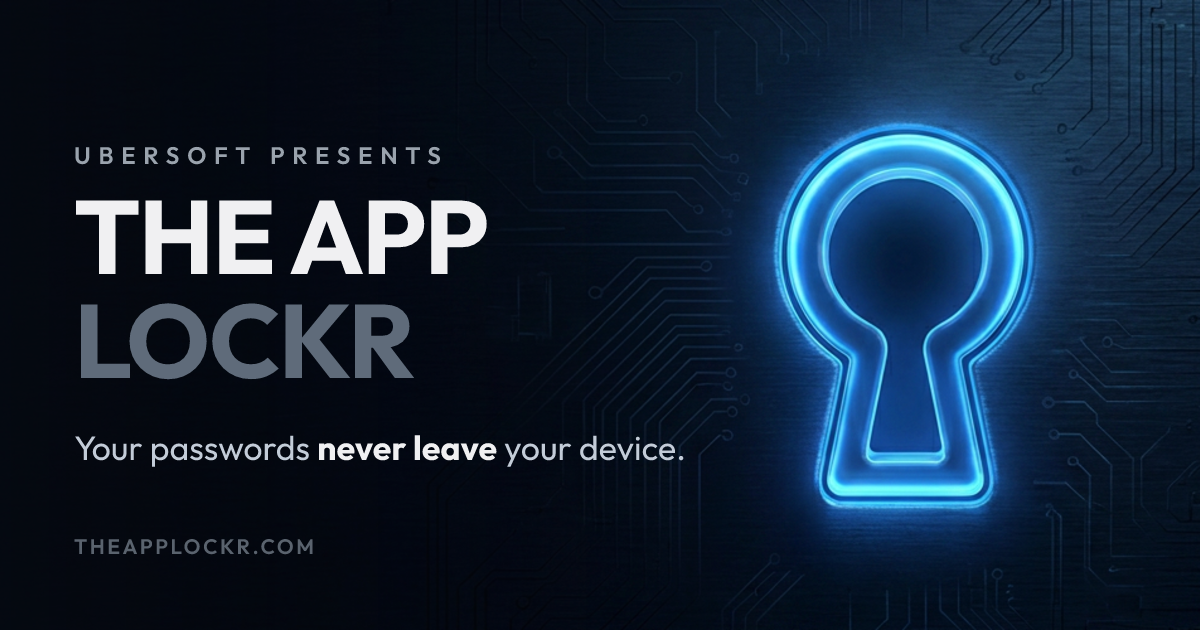
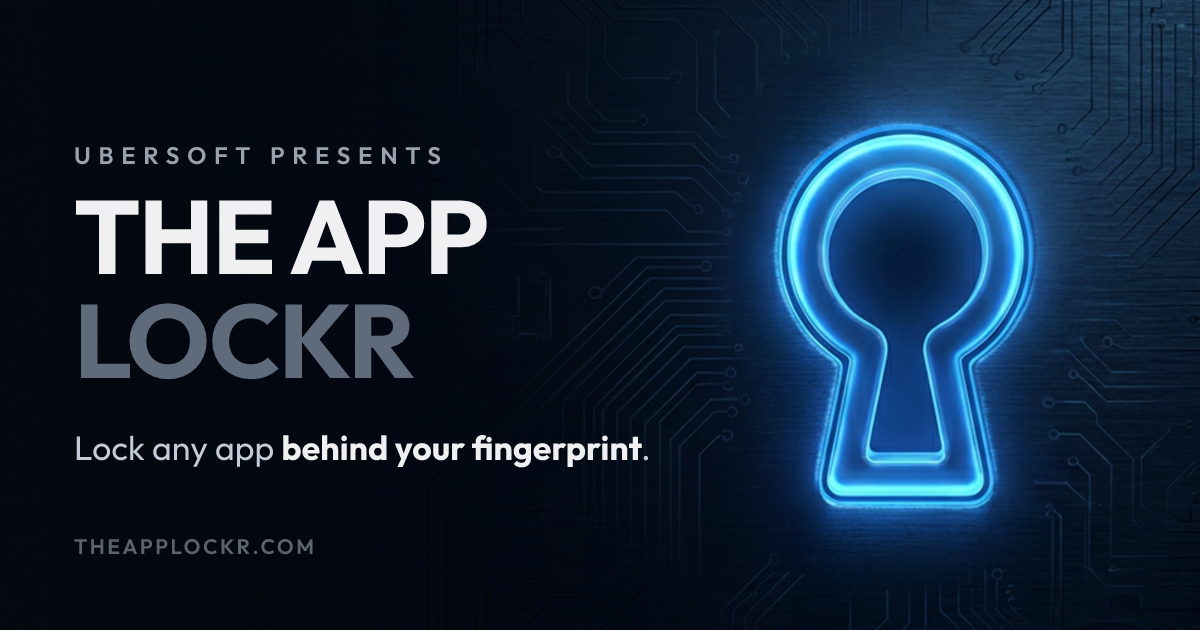
Product pivot: The App Lockr is an app locker — full site rebuild (copy, screenshots, og) for locking apps behind your fingerprint

Changed region(s): [[0.0617, 0.6937, 0.555, 0.754]]

diff --git a/index.html b/index.html
@@ -3,10 +3,10 @@
 <head>
 <meta charset="UTF-8">
 <meta name="viewport" content="width=device-width, initial-scale=1.0">
-<title>The App Lockr | Your passwords never leave your device</title>
-<meta name="description" content="The App Lockr is a local-only Android password manager. No account, no cloud, and no network permission at all — your passwords are encrypted on your device and autofill anywhere. $4.99 one-time, by Ubersoft.">
+<title>The App Lockr | Lock any app behind your fingerprint</title>
+<meta name="description" content="The App Lockr locks any Android app behind your phone's own fingerprint or PIN — WhatsApp, photos, banking, anything. No account, no cloud, and no internet permission at all. $4.99 one-time, by Ubersoft.">
 <meta property="og:title" content="The App Lockr">
-<meta property="og:description" content="A password manager with no account, no cloud, and no network permission. Your passwords never leave your device.">
+<meta property="og:description" content="Lock any app behind your fingerprint. No account, no cloud, no internet permission.">
 <meta property="og:type" content="website">
 <meta property="og:url" content="https://theapplockr.com">
 <meta property="og:image" content="https://theapplockr.com/assets/img/og.png">
@@ -14,7 +14,7 @@
 <meta property="og:image:height" content="630">
 <meta name="twitter:card" content="summary_large_image">
 <meta name="twitter:title" content="The App Lockr">
-<meta name="twitter:description" content="Your passwords never leave your device.">
+<meta name="twitter:description" content="Lock any app behind your fingerprint.">
 <meta name="twitter:image" content="https://theapplockr.com/assets/img/og.png">
 <link rel="canonical" href="https://theapplockr.com/">
 <meta name="theme-color" content="#ffffff" media="(prefers-color-scheme: light)">
@@ -35,18 +35,18 @@
 <script type="application/ld+json">
 {
   "@context":"https://schema.org","@type":"FAQPage","mainEntity":[
-    {"@type":"Question","name":"Where are my passwords stored?","acceptedAnswer":{"@type":"Answer","text":"Only on your device, in a single encrypted vault file. There is no account and no cloud. The app requests no network permission at all, so your passwords physically cannot be sent anywhere."}},
-    {"@type":"Question","name":"How does autofill work without an account?","acceptedAnswer":{"@type":"Answer","text":"The App Lockr registers as your Android autofill service. When a login screen appears, it offers a matching entry as a suggestion and, after your fingerprint or master password, fills it — the app's own screen never has to open."}},
-    {"@type":"Question","name":"What if I lose my master password?","acceptedAnswer":{"@type":"Answer","text":"Because nothing leaves your device and there is no account, no one can reset it — not even us. That is the point. Keep your master password safe and export a backup you can restore from."}},
-    {"@type":"Question","name":"Is it really pay-once?","acceptedAnswer":{"@type":"Answer","text":"Yes — $4.99 one time on Google Play. No subscription, no in-app purchases, no ads."}},
-    {"@type":"Question","name":"How do backups work with no cloud?","acceptedAnswer":{"@type":"Answer","text":"You export the vault as an already-encrypted file to wherever you choose. Moving to a new phone is export then import. The file is unreadable without your master password, so it is safe to store anywhere."}}
+    {"@type":"Question","name":"How does it lock other apps?","acceptedAnswer":{"@type":"Answer","text":"With Android's usage access, The App Lockr notices a protected app opening and immediately puts its lock screen in front of it. Your phone's own fingerprint or PIN opens the door."}},
+    {"@type":"Question","name":"Is my fingerprint stored somewhere?","acceptedAnswer":{"@type":"Answer","text":"No. The check is Android's own biometric prompt; the app is only told whether it passed. Nothing about your fingerprint exists in the app — and with no internet permission, it could not be sent anywhere anyway."}},
+    {"@type":"Question","name":"Can it see what I do inside my apps?","acceptedAnswer":{"@type":"Answer","text":"No. Usage access tells it which app came to the front — never screen content, keystrokes, or messages. It keeps no history, and it has no network access to send anything."}},
+    {"@type":"Question","name":"What happens when I hand someone my phone?","acceptedAnswer":{"@type":"Answer","text":"They can use everything you did not lock. The moment the screen turns off, every locked app re-locks — so what is yours stays yours."}},
+    {"@type":"Question","name":"Is it really pay-once?","acceptedAnswer":{"@type":"Answer","text":"Yes — $4.99 one time on Google Play. No subscription, no in-app purchases, no ads."}}
   ]
 }
 </script>
 </head>
 <body>
 
-<div class="announce">A new kind of password manager · <b>$4.99 one-time</b> · no account, no cloud, no network permission</div>
+<div class="announce">An app locker with nothing to hide · <b>$4.99 one-time</b> · no account, no ads, no internet permission</div>
 
 <nav>
   <div class="nav-in">
@@ -67,8 +67,8 @@
   <div class="wrap">
     <img class="app-icon hero-icon" src="/assets/img/app-icon.png" alt="The App Lockr app icon" width="96" height="96">
     <span class="eyebrow">The App Lockr</span>
-    <h1>Your passwords <span class="dim">never leave your device.</span></h1>
-    <p class="lede normalcase">The App Lockr is a password manager with no account, no cloud, and — uniquely — no network permission at all. Your logins are encrypted on your phone and autofilled anywhere. Nothing to sync, nothing to breach.</p>
+    <h1>Hand over your phone, <span class="dim">not your whole life.</span></h1>
+    <p class="lede normalcase">The App Lockr locks any app behind your phone's own fingerprint or PIN — WhatsApp, photos, banking, whatever's yours. No account, no cloud, and — uniquely — no internet permission at all, so what you lock stays your business.</p>
     <div class="badges" id="get">
       <a class="gp-badge" href="https://play.google.com/store/apps/details?id=com.theapplockr.app" target="_blank" rel="noopener"><img src="assets/img/google-play-badge.png" alt="Get it on Google Play" height="54"></a>
     </div>
@@ -79,9 +79,9 @@
 <div class="stats">
   <div class="wrap" style="padding:0">
     <div class="stats-in">
-      <div class="stat"><div class="ico" style="color:var(--accent)"><svg viewBox="0 0 24 24"><path d="M12 3l7 3v6c0 4.5-3 7.5-7 9-4-1.5-7-4.5-7-9V6l7-3z"/><path d="M9 12l2 2 4-4"/></svg></div><div class="n txt">AES-256</div><div class="k">Vault encryption</div></div>
+      <div class="stat"><div class="ico" style="color:var(--accent)"><svg viewBox="0 0 24 24"><rect x="4" y="11" width="16" height="9" rx="2"/><path d="M8 11V8a4 4 0 0 1 8 0v3"/></svg></div><div class="n txt">Any</div><div class="k">App, lockable</div></div>
       <div class="stat"><div class="ico" style="color:var(--ok)"><svg viewBox="0 0 24 24"><path d="M2 12s3.5-7 10-7 10 7 10 7-3.5 7-10 7S2 12 2 12z"/><path d="M4 4l16 16"/></svg></div><div class="n">0</div><div class="k">Internet permissions</div></div>
-      <div class="stat"><div class="ico" style="color:var(--ok)"><svg viewBox="0 0 24 24"><rect x="4" y="11" width="16" height="9" rx="2"/><path d="M8 11V8a4 4 0 0 1 8 0v3"/></svg></div><div class="n">100<span class="a">%</span></div><div class="k">On your device</div></div>
+      <div class="stat"><div class="ico" style="color:var(--accent)"><svg viewBox="0 0 24 24"><circle cx="12" cy="12" r="9"/><path d="M3 12h18M12 3a15 15 0 0 1 0 18M12 3a15 15 0 0 0 0 18"/></svg></div><div class="n">8</div><div class="k">Languages</div></div>
       <div class="stat"><div class="ico" style="color:var(--accent)"><svg viewBox="0 0 24 24"><path d="M20.59 13.41l-7.17 7.17a2 2 0 0 1-2.83 0L2 12V2h10l8.59 8.59a2 2 0 0 1 0 2.82z"/><circle cx="7" cy="7" r="1.3"/></svg></div><div class="n"><span class="a">$</span>4.99</div><div class="k">One-time</div></div>
     </div>
   </div>
@@ -91,40 +91,40 @@
   <div class="wrap">
     <div class="section-head">
       <span class="eyebrow">FEATURES</span>
-      <h2>Inside the vault</h2>
+      <h2>How it locks</h2>
       <p class="normalcase">Real screenshots from the app — tap any of them for a closer look.</p>
     </div>
     <div class="feature">
       <div class="ftext">
-        <span class="eyebrow">THE VAULT</span>
-        <h2>Every login, one locked list.</h2>
-        <p class="normalcase">Sites, usernames, and notes at a glance — search finds anything in a keystroke. The secrets themselves stay sealed until the moment you unlock them.</p>
+        <span class="eyebrow">THE GUARD</span>
+        <h2>One switch, everything locked.</h2>
+        <p class="normalcase">Protection is one big switch — flip it and every app you chose is behind your fingerprint. Pause it just as fast. It's your phone; the locker never argues.</p>
       </div>
-      <div class="fviz"><button class="shot-link" type="button" data-full="/assets/img/shot-vault.webp" aria-label="Enlarge screenshot: the vault list"><img class="shotframe" src="/assets/img/shot-vault.png" srcset="/assets/img/shot-vault.webp" alt="The vault: every login in one searchable locked list" loading="lazy" width="460" height="818"></button></div>
+      <div class="fviz"><button class="shot-link" type="button" data-full="/assets/img/shot-home.webp" aria-label="Enlarge screenshot: protection on, locked apps listed"><img class="shotframe" src="/assets/img/shot-home.png" srcset="/assets/img/shot-home.webp" alt="Home screen: protection on, guarding WhatsApp, Photos and Chase" loading="lazy" width="460" height="818"></button></div>
     </div>
     <div class="feature flip">
       <div class="ftext">
-        <span class="eyebrow">ONE ENTRY</span>
-        <h2>Each secret, sealed on its own.</h2>
-        <p class="normalcase">Open an entry and copy what you need — passwords reveal only on tap, and the clipboard clears itself. Nothing is decrypted until you ask.</p>
+        <span class="eyebrow">PICK YOUR APPS</span>
+        <h2>Lock exactly what's yours.</h2>
+        <p class="normalcase">Every installed app in one list — flip a toggle to protect it, search finds anything in a keystroke. Lock three apps or thirty; change your mind any time.</p>
       </div>
-      <div class="fviz"><button class="shot-link" type="button" data-full="/assets/img/shot-entry.webp" aria-label="Enlarge screenshot: a vault entry"><img class="shotframe" src="/assets/img/shot-entry.png" srcset="/assets/img/shot-entry.webp" alt="A single entry: username and password sealed, copy buttons ready" loading="lazy" width="460" height="818"></button></div>
+      <div class="fviz"><button class="shot-link" type="button" data-full="/assets/img/shot-apps.webp" aria-label="Enlarge screenshot: the app picker"><img class="shotframe" src="/assets/img/shot-apps.png" srcset="/assets/img/shot-apps.webp" alt="The app picker: every installed app with a lock toggle" loading="lazy" width="460" height="818"></button></div>
     </div>
     <div class="feature">
       <div class="ftext">
-        <span class="eyebrow">THE GENERATOR</span>
-        <h2>Strong passwords on tap.</h2>
-        <p class="normalcase">Proper entropy from your device's secure RNG, with length and character rules you control. One tap, one password nobody's guessing.</p>
+        <span class="eyebrow">THREE PERMISSIONS</span>
+        <h2>Set up in a minute, explained straight.</h2>
+        <p class="normalcase">Each permission is asked for in plain words — what it does, and what it can't do. Nothing is granted silently, and Settings shows you the list any time.</p>
       </div>
-      <div class="fviz"><button class="shot-link" type="button" data-full="/assets/img/shot-generator.webp" aria-label="Enlarge screenshot: the password generator"><img class="shotframe" src="/assets/img/shot-generator.png" srcset="/assets/img/shot-generator.webp" alt="The generator: a strong random password with length and character controls" loading="lazy" width="460" height="818"></button></div>
+      <div class="fviz"><button class="shot-link" type="button" data-full="/assets/img/shot-permissions.webp" aria-label="Enlarge screenshot: the permission setup"><img class="shotframe" src="/assets/img/shot-permissions.png" srcset="/assets/img/shot-permissions.webp" alt="Setup: three permissions, each explained in plain words" loading="lazy" width="460" height="818"></button></div>
     </div>
     <div class="feature flip">
       <div class="ftext">
-        <span class="eyebrow">UNLOCK</span>
-        <h2>Your fingerprint is the key.</h2>
-        <p class="normalcase">Biometric unlock is bound to the Android Keystore — the OS won't release the key without a fresh check. Walk away, and the vault locks itself.</p>
+        <span class="eyebrow">NOTHING NEW TO REMEMBER</span>
+        <h2>Your phone's lock is the key.</h2>
+        <p class="normalcase">It uses the fingerprint or PIN your phone already has — no new password, no recovery questions. And it speaks 8 languages, each written natively.</p>
       </div>
-      <div class="fviz"><button class="shot-link" type="button" data-full="/assets/img/shot-unlock.webp" aria-label="Enlarge screenshot: the unlock screen"><img class="shotframe" src="/assets/img/shot-unlock.png" srcset="/assets/img/shot-unlock.webp" alt="The unlock screen: fingerprint or master password" loading="lazy" width="460" height="818"></button></div>
+      <div class="fviz"><button class="shot-link" type="button" data-full="/assets/img/shot-settings.webp" aria-label="Enlarge screenshot: settings"><img class="shotframe" src="/assets/img/shot-settings.png" srcset="/assets/img/shot-settings.webp" alt="Settings: theme, 8 languages, and every permission visible at a glance" loading="lazy" width="460" height="818"></button></div>
     </div>
   </div>
 </section>
@@ -133,39 +133,39 @@
   <div class="wrap">
     <div class="section-head">
       <span class="eyebrow">WHY IT'S DIFFERENT</span>
-      <h2>Most managers ask you to trust their servers. This one has none.</h2>
-      <p class="normalcase">Every design choice serves one promise: the secrets stay with you.</p>
+      <h2>Most app lockers phone home. This one can't.</h2>
+      <p class="normalcase">Every design choice serves one promise: what you lock stays your business.</p>
     </div>
     <div class="grid">
       <div class="card">
         <svg class="ico" viewBox="0 0 24 24" fill="none"><path d="M12 3l7 3v6c0 4.5-3 7.5-7 9-4-1.5-7-4.5-7-9V6l7-3z" stroke="currentColor" stroke-width="1.6"/><path d="M9 12l2 2 4-4" stroke="currentColor" stroke-width="1.6"/></svg>
-        <h3>No network permission</h3>
-        <p class="normalcase">The app doesn't request internet access in its manifest — anyone can verify it. Passwords can't be sent anywhere because the app literally cannot reach the network.</p>
+        <h3>No internet permission</h3>
+        <p class="normalcase">The app doesn't request internet access in its manifest — anyone can verify it. It literally cannot report which apps you lock, to us or to anyone.</p>
+      </div>
+      <div class="card">
+        <svg class="ico" viewBox="0 0 24 24" fill="none"><path d="M12 11a2 2 0 0 1 2 2c0 3-1 5-1 5" stroke="currentColor" stroke-width="1.6"/><path d="M8.5 6.8A6 6 0 0 1 18 12c0 1.5-.2 3-.5 4" stroke="currentColor" stroke-width="1.6"/><path d="M6.2 10A6 6 0 0 0 6 12c0 2-.4 3.5-1 5" stroke="currentColor" stroke-width="1.6"/><path d="M12 8a4 4 0 0 1 4 4c0 3-.6 5-1 6.5" stroke="currentColor" stroke-width="1.6"/></svg>
+        <h3>Your fingerprint stays your phone's</h3>
+        <p class="normalcase">Unlocking is Android's own biometric prompt. The App Lockr only ever hears "yes" or "no" — nothing about your fingerprint is stored, by us or in the app.</p>
       </div>
       <div class="card">
         <svg class="ico" viewBox="0 0 24 24" fill="none"><rect x="4" y="10" width="16" height="10" rx="2" stroke="currentColor" stroke-width="1.6"/><path d="M8 10V7a4 4 0 0 1 8 0v3" stroke="currentColor" stroke-width="1.6"/></svg>
-        <h3>Fingerprint autofill</h3>
-        <p class="normalcase">Set it as your Android autofill service once. Login screens get a suggestion; a fingerprint fills it. The vault stays locked until the moment you approve.</p>
+        <h3>Re-locks when the screen sleeps</h3>
+        <p class="normalcase">Hand your phone over and the moment the screen turns off, every locked app is locked again. No timers to configure, no session left open.</p>
       </div>
       <div class="card">
-        <svg class="ico" viewBox="0 0 24 24" fill="none"><path d="M12 2v20M4 7l8-5 8 5M4 7v10l8 5 8-5V7" stroke="currentColor" stroke-width="1.6" stroke-linejoin="round"/></svg>
-        <h3>Standard, audited crypto</h3>
-        <p class="normalcase">Argon2id to stretch your master password, AES-256-GCM for the vault, hardware-backed keys via the Android Keystore. No home-grown anything.</p>
+        <svg class="ico" viewBox="0 0 24 24" fill="none"><circle cx="12" cy="12" r="9" stroke="currentColor" stroke-width="1.6"/><path d="M12 7v5l3 3" stroke="currentColor" stroke-width="1.6"/></svg>
+        <h3>One tap to pause</h3>
+        <p class="normalcase">Protection is a switch, not a ceremony. Turn it off for a minute, back on after — your app choices are remembered exactly as you left them.</p>
       </div>
       <div class="card">
-        <svg class="ico" viewBox="0 0 24 24" fill="none"><path d="M4 6h16M4 12h16M4 18h10" stroke="currentColor" stroke-width="1.6"/></svg>
-        <h3>A generator built in</h3>
-        <p class="normalcase">Strong, random passwords on tap — proper entropy from your device's secure RNG, with length and character rules you control.</p>
+        <svg class="ico" viewBox="0 0 24 24" fill="none"><path d="M2 12s3.5-7 10-7 10 7 10 7-3.5 7-10 7S2 12 2 12z" stroke="currentColor" stroke-width="1.6"/><path d="M4 4l16 16" stroke="currentColor" stroke-width="1.6"/></svg>
+        <h3>It can't see inside your apps</h3>
+        <p class="normalcase">Usage access only tells the locker which app comes to the front — never what's on screen or what you type. With no internet permission, there'd be nowhere to send it anyway.</p>
       </div>
       <div class="card">
-        <svg class="ico" viewBox="0 0 24 24" fill="none"><path d="M12 3l7 3v6c0 4.5-3 7.5-7 9-4-1.5-7-4.5-7-9V6l7-3z" stroke="currentColor" stroke-width="1.6"/><path d="M12 8v4M12 15h.01" stroke="currentColor" stroke-width="1.6"/></svg>
-        <h3>Phishing-aware matching</h3>
-        <p class="normalcase">Suggestions match the real domain only. A look-alike like paypal.com.evil.io will never surface your PayPal login. Exact match, never fuzzy.</p>
-      </div>
-      <div class="card">
-        <svg class="ico" viewBox="0 0 24 24" fill="none"><path d="M4 5h16v11H4z" stroke="currentColor" stroke-width="1.6"/><path d="M9 20h6M12 16v4" stroke="currentColor" stroke-width="1.6"/></svg>
-        <h3>Yours to export</h3>
-        <p class="normalcase">Back up the whole vault as one encrypted file, to wherever you like. Moving phones is export, then import. No cloud in the middle.</p>
+        <svg class="ico" viewBox="0 0 24 24" fill="none"><circle cx="12" cy="12" r="9" stroke="currentColor" stroke-width="1.6"/><path d="M3 12h18M12 3a15 15 0 0 1 0 18M12 3a15 15 0 0 0 0 18" stroke="currentColor" stroke-width="1.6"/></svg>
+        <h3>Speaks your language</h3>
+        <p class="normalcase">English, Deutsch, Español, Français, Italiano, 日本語, 한국어, 中文 — each written natively for its audience, not machine-translated.</p>
       </div>
     </div>
   </div>
@@ -186,23 +186,23 @@
       </div>
       <div class="secrow">
         <svg class="k" viewBox="0 0 24 24" fill="none"><path d="M5 13l4 4L19 7" stroke="currentColor" stroke-width="2"/></svg>
-        <div><h3>Your master password never leaves memory</h3><p class="normalcase">It's stretched with Argon2id into a key that unwraps your vault, used briefly in native memory, then wiped. It's never stored, never transmitted.</p></div>
+        <div><h3>Your fingerprint never touches the app</h3><p class="normalcase">The biometric check is Android's own system sheet. The app receives a pass or a fail — never fingerprint data, which stays inside your phone's secure hardware where it always was.</p></div>
       </div>
       <div class="secrow">
         <svg class="k" viewBox="0 0 24 24" fill="none"><path d="M5 13l4 4L19 7" stroke="currentColor" stroke-width="2"/></svg>
-        <div><h3>The vault is AES-256-GCM encrypted</h3><p class="normalcase">Industry-standard authenticated encryption. Each entry's secret is sealed individually and only decrypted the instant you view or fill it.</p></div>
+        <div><h3>Usage access, used narrowly</h3><p class="normalcase">It's read for one fact: which app just came to the front, so a locked one can be gated. Not what's inside, not for how long, not a history — and nothing is ever logged.</p></div>
       </div>
       <div class="secrow">
         <svg class="k" viewBox="0 0 24 24" fill="none"><path d="M5 13l4 4L19 7" stroke="currentColor" stroke-width="2"/></svg>
-        <div><h3>Biometrics are bound to the hardware</h3><p class="normalcase">The fingerprint unlock uses a key held in the Android Keystore that the operating system refuses to release without a fresh biometric check.</p></div>
+        <div><h3>The lock screen is just a door</h3><p class="normalcase">"Display over other apps" lets the lock screen step in front of a protected app the instant it opens. That is the only thing the overlay is used for — it never draws over anything else.</p></div>
       </div>
       <div class="secrow">
         <svg class="k" viewBox="0 0 24 24" fill="none"><path d="M5 13l4 4L19 7" stroke="currentColor" stroke-width="2"/></svg>
-        <div><h3>The screen can't be captured</h3><p class="normalcase">Vault screens are marked secure, so they don't appear in screenshots or the app-switcher preview. The app auto-locks the moment it leaves the foreground, and clipboard copies clear themselves.</p></div>
+        <div><h3>Screen off means locked again</h3><p class="normalcase">Locked apps re-arm the moment the display sleeps, so an unlocked session can't outlive the hand you put the phone in.</p></div>
       </div>
       <div class="secrow">
         <svg class="k" viewBox="0 0 24 24" fill="none"><path d="M5 13l4 4L19 7" stroke="currentColor" stroke-width="2"/></svg>
-        <div><h3>The honest trade-off</h3><p class="normalcase">Because nothing leaves your device and there's no account, no one can recover a lost vault — not even us. That's the direct consequence of real privacy, and we'd rather say it plainly. Keep your master password safe, and keep a backup.</p></div>
+        <div><h3>The honest trade-off</h3><p class="normalcase">An app locker guards your privacy from the people around you — it isn't full-disk encryption. Someone who knows your phone's own PIN could uninstall it. For everyone else, your apps are simply shut, and we'd rather tell you that plainly.</p></div>
       </div>
     </div>
     <p class="rev-note">SECURITY QUESTIONS OR SOMETHING TO REPORT — <a href="mailto:[email redacted]" style="text-decoration:underline; text-underline-offset:2px">[email redacted]</a></p>
@@ -216,10 +216,10 @@
       <h2>Straight answers</h2>
     </div>
     <div class="faq">
-      <details><summary>Where are my passwords stored?</summary><div class="ans">Only on your device, in a single encrypted vault file. There's no account and no cloud. The app requests no network permission at all, so your passwords physically cannot be sent anywhere.</div></details>
-      <details><summary>How does autofill work without an account?</summary><div class="ans">The App Lockr registers as your Android autofill service. When a login screen appears, it offers a matching entry as a suggestion and — after your fingerprint or master password — fills it. The app's own screen never has to open.</div></details>
-      <details><summary>What if I forget my master password?</summary><div class="ans">Because nothing leaves your device and there's no account, no one can reset it — not even us. That's the whole point. Keep your master password safe, and export a backup you can restore from.</div></details>
-      <details><summary>How do backups work with no cloud?</summary><div class="ans">You export the vault as an already-encrypted file, to wherever you choose. Moving to a new phone is export, then import. The file is unreadable without your master password, so it's safe to keep anywhere.</div></details>
+      <details><summary>How does it lock other apps?</summary><div class="ans">With Android's usage access, The App Lockr notices a protected app opening and immediately puts its lock screen in front of it. Your phone's own fingerprint or PIN opens the door.</div></details>
+      <details><summary>Is my fingerprint stored somewhere?</summary><div class="ans">No. The check is Android's own biometric prompt; the app is only told whether it passed. Nothing about your fingerprint exists in the app — and with no internet permission, it couldn't be sent anywhere anyway.</div></details>
+      <details><summary>Can it see what I do inside my apps?</summary><div class="ans">No. Usage access tells it which app came to the front — never screen content, keystrokes, or messages. It keeps no history, and it has no network access to send anything.</div></details>
+      <details><summary>What happens when I hand someone my phone?</summary><div class="ans">They can use everything you didn't lock. The moment the screen turns off, every locked app re-locks — so what's yours stays yours.</div></details>
       <details><summary>Is it really pay-once?</summary><div class="ans">Yes — $4.99 one time on Google Play. No subscription, no in-app purchases, no ads.</div></details>
     </div>
   </div>
@@ -228,7 +228,7 @@
 <section class="final">
   <div class="wrap">
     <span class="eyebrow">Download</span>
-    <h2>The safest place for a password is nowhere but your pocket.</h2>
+    <h2>Phones get handed around. Your apps shouldn't.</h2>
     <p class="normalcase">$4.99, one-time. No subscription. No ads. No account.</p>
     <div class="badges">
       <a class="gp-badge" href="https://play.google.com/store/apps/details?id=com.theapplockr.app" target="_blank" rel="noopener"><img src="assets/img/google-play-badge.png" alt="Get it on Google Play" height="54"></a>
@@ -241,7 +241,7 @@
     <div class="foot-grid">
       <div class="foot-brand">
         <a class="brand" href="/">The App <b>Lockr</b></a>
-        <p class="normalcase">Your passwords never leave your device. No account, no cloud, no network permission.</p>
+        <p class="normalcase">Lock any app behind your fingerprint. No account, no cloud, no internet permission.</p>
       </div>
       <div class="foot-col">
         <h4>Product</h4>

diff --git a/privacy.html b/privacy.html
@@ -4,15 +4,15 @@
 <meta charset="UTF-8">
 <meta name="viewport" content="width=device-width, initial-scale=1.0">
 <title>The App Lockr | Privacy Policy</title>
-<meta name="description" content="Privacy Policy for The App Lockr by Ubersoft. Your passwords stay on your device — no account, no cloud, no network permission, no tracking.">
+<meta name="description" content="Privacy Policy for The App Lockr by Ubersoft. Which apps you lock stays on your device — no account, no cloud, no internet permission, no tracking.">
 <meta name="robots" content="index, follow">
 <meta property="og:title" content="Privacy Policy — The App Lockr">
-<meta property="og:description" content="Your passwords stay on your device — no account, no cloud, no network permission.">
+<meta property="og:description" content="Which apps you lock stays on your device — no account, no cloud, no internet permission.">
 <meta property="og:type" content="website">
 <meta property="og:url" content="https://theapplockr.com/privacy.html">
 <meta name="twitter:card" content="summary">
 <meta name="twitter:title" content="Privacy Policy — The App Lockr">
-<meta name="twitter:description" content="Your passwords stay on your device — no account, no cloud, no network permission.">
+<meta name="twitter:description" content="Which apps you lock stays on your device — no account, no cloud, no internet permission.">
 <link rel="canonical" href="https://theapplockr.com/privacy.html">
 <meta name="theme-color" content="#ffffff" media="(prefers-color-scheme: light)">
 <meta name="theme-color" content="#0e0e10" media="(prefers-color-scheme: dark)">
@@ -43,60 +43,60 @@
     <span class="eyebrow">LEGAL</span>
     <h1>Privacy Policy</h1>
     <!-- EFFECTIVE DATE — update both the datetime and the visible text below whenever you change any policy wording. This is the single source of truth for the date. -->
-    <div class="meta">Effective date: <time datetime="2026-07-13">July 13, 2026</time></div>
+    <div class="meta">Effective date: <time datetime="2026-07-20">July 20, 2026</time></div>
   </div>
 </header>
 
 <main class="wrap">
   <div class="legal">
 
-    <p class="lede">The App Lockr (the "app") is built and published by Ubersoft ("we," "us," "our"). This policy explains how the app handles your information. <b>The short version: your passwords stay on your device, and we can't see them — the app has no way to send them to us.</b></p>
+    <p class="lede">The App Lockr (the "app") is built and published by Ubersoft ("we," "us," "our"). This policy explains how the app handles your information. <b>The short version: which apps you lock stays on your device, and we can't see it — the app has no way to send anything to us.</b></p>
 
     <div class="summary">
       <div class="st">In plain terms</div>
       <ul>
         <li><span class="tick"><svg viewBox="0 0 24 24"><path d="M20 6 9 17l-5-5"/></svg></span><span><b>No account.</b> No sign-up, no login, no profile.</span></li>
-        <li><span class="tick"><svg viewBox="0 0 24 24"><path d="M20 6 9 17l-5-5"/></svg></span><span><b>No servers.</b> Your logins, passwords, and notes live only on your device, encrypted.</span></li>
-        <li><span class="tick"><svg viewBox="0 0 24 24"><path d="M20 6 9 17l-5-5"/></svg></span><span><b>No network permission.</b> The app cannot access the internet at all — you can verify this yourself.</span></li>
-        <li><span class="tick"><svg viewBox="0 0 24 24"><path d="M20 6 9 17l-5-5"/></svg></span><span><b>Nothing reaches us.</b> We can't see, recover, or reset your vault, because it never leaves your device.</span></li>
+        <li><span class="tick"><svg viewBox="0 0 24 24"><path d="M20 6 9 17l-5-5"/></svg></span><span><b>No servers.</b> Your list of locked apps and your settings live only on your device.</span></li>
+        <li><span class="tick"><svg viewBox="0 0 24 24"><path d="M20 6 9 17l-5-5"/></svg></span><span><b>No internet permission.</b> The app cannot access the internet at all — you can verify this yourself.</span></li>
+        <li><span class="tick"><svg viewBox="0 0 24 24"><path d="M20 6 9 17l-5-5"/></svg></span><span><b>No fingerprint data.</b> Unlocking uses Android's own biometric check — the app is only told whether it passed.</span></li>
       </ul>
     </div>
 
     <h2><span class="n">01</span> Information the app stores on your device</h2>
-    <p>The app lets you save login entries — site or app names, usernames, passwords, and notes — plus your preferences such as theme and auto-lock timing. All of it is encrypted with your master password and stored in a single vault file on your device. It is not transmitted to us or to anyone else.</p>
+    <p>The app stores the list of apps you chose to lock, whether protection is switched on, and your preferences such as theme and language. All of it lives in the app's private storage on your device. It is not transmitted to us or to anyone else.</p>
 
     <h2><span class="n">02</span> Information we collect</h2>
     <p>We do not collect, receive, or store any information about you. The app has no account system, no server component, and — unusually for a modern app — <b>requests no internet permission at all</b>, so it has no technical means of sending your data anywhere. You can confirm this in your device's app settings.</p>
 
-    <h2><span class="n">03</span> Backups and exports</h2>
-    <p>The app lets you export your vault as a backup file. That file is created on your device at your request, stays encrypted with your master password, and is saved to a location you choose. We do not receive a copy. If you later move, share, or store that file somewhere else, it is handled under the terms of whatever service or location you select — and it remains unreadable without your master password.</p>
-
-    <h2><span class="n">04</span> Analytics and advertising</h2>
+    <h2><span class="n">03</span> Analytics and advertising</h2>
     <p>The app contains no analytics, no crash reporting, no advertising, and no third-party tracking technologies. We do not build a profile of you, and the app does not use advertising identifiers.</p>
 
-    <h2><span class="n">05</span> Purchases</h2>
+    <h2><span class="n">04</span> Purchases</h2>
     <p>The App Lockr is a one-time paid app. Your purchase is processed by Google Play, not by us — we never see or store your payment details. Google's handling of your purchase and account information is governed by Google's own privacy policy, available at <a class="link" href="https://policies.google.com/privacy">policies.google.com/privacy</a>.</p>
 
-    <h2><span class="n">06</span> Permissions</h2>
-    <p>The app requests only what it needs to work on your device:</p>
+    <h2><span class="n">05</span> Permissions</h2>
+    <p>The app asks for three things, each explained on its own setup screen, and nothing more:</p>
     <ul class="body-list">
-      <li><b>Biometrics</b> (optional): if you turn on fingerprint or face unlock, the check is performed entirely by your device's own secure hardware. Biometric data never enters the app and never leaves your device.</li>
-      <li><b>Autofill service</b> (optional): if you set The App Lockr as your autofill provider, Android shows your matching logins inside other apps and browsers. The matching happens on your device; nothing is sent anywhere.</li>
-      <li><b>Storage access</b> (where applicable): used only to let you save or load an encrypted backup file that you create.</li>
+      <li><b>Usage access:</b> lets the app notice that a locked app has come to the front, so the lock screen can appear. It is read for that one fact only — never what is on the screen, what you type, or how long you use anything, and no history is kept.</li>
+      <li><b>Display over other apps:</b> lets the lock screen appear in front of a protected app. That is the only thing it is used for.</li>
+      <li><b>Biometrics:</b> unlocking uses Android's own biometric prompt. The check is performed entirely by your device's secure hardware; the app is only told whether it passed. Biometric data never enters the app and never leaves your device.</li>
     </ul>
     <p class="note">Notably absent: internet access. The app does not request it and cannot use it.</p>
+
+    <h2><span class="n">06</span> What the app can see — and what it can't</h2>
+    <p>To do its job, the app knows which application just came to the foreground and compares it against your locked list, entirely on your device. It cannot read the content of other apps, cannot record your screen, and cannot log your activity. Nothing it observes is stored or transmitted — there is nowhere for it to go.</p>
 
     <h2><span class="n">07</span> Children's privacy</h2>
     <p>The app is not directed to children under 13 (or the equivalent minimum age in your region), and we do not knowingly collect information from children. Because the app collects no information at all, no personal information from any user — child or adult — is gathered by us.</p>
 
     <h2><span class="n">08</span> Your choices and rights</h2>
-    <p>Since we hold no data about you, there is nothing for us to access, correct, or delete on our side. You remain in full control of the information on your device: you can edit or delete any entry in the app, clear the app's data from your device settings, or uninstall the app to remove everything. Depending on where you live — for example under the GDPR or CCPA/CPRA — you may have rights regarding personal data a company holds about you. We hold none.</p>
+    <p>Since we hold no data about you, there is nothing for us to access, correct, or delete on our side. You remain in full control on your device: unlock any app in the list, switch protection off, clear the app's data from your device settings, or uninstall it to remove everything. Depending on where you live — for example under the GDPR or CCPA/CPRA — you may have rights regarding personal data a company holds about you. We hold none.</p>
 
     <h2><span class="n">09</span> Data security</h2>
-    <p>Your vault is encrypted on your device using strong, industry-standard cryptography, with a key derived from your master password and protected by your device's secure hardware. Because we never hold your vault or your master password, <b>we cannot recover either one</b> — if you lose both your master password and your device without a backup, your vault is unrecoverable by design. We recommend keeping your device locked, its software up to date, and an exported backup somewhere safe. There is no central database of anyone's passwords for an attacker to breach.</p>
+    <p>Your settings never leave your device, so there is no central database about you for anyone to breach. The lock itself relies on your device's own screen-lock credentials and secure hardware — the same protection your phone already trusts. Keep your device's software up to date and its screen lock set; the app depends on both.</p>
 
     <h2><span class="n">10</span> Third-party services</h2>
-    <p>The app is distributed through Google Play and uses Google Play to process payment. Apart from that, the app does not send your information to any third party — it has no network permission with which to do so.</p>
+    <p>The app is distributed through Google Play and uses Google Play to process payment. Apart from that, the app does not send your information to any third party — it has no internet permission with which to do so.</p>
 
     <h2><span class="n">11</span> Changes to this policy</h2>
     <p>We may update this policy from time to time. If we make material changes, we'll update the effective date above and post the new version at theapplockr.com/privacy. Continuing to use the app after an update means you accept the revised policy.</p>
@@ -112,7 +112,7 @@
     <div class="foot-grid">
       <div class="foot-brand">
         <a class="brand" href="/">The App <b>Lockr</b></a>
-        <p class="normalcase">Your passwords never leave your device. No account, no cloud, no network permission.</p>
+        <p class="normalcase">Lock any app behind your fingerprint. No account, no cloud, no internet permission.</p>
       </div>
       <div class="foot-col">
         <h4>Product</h4>

diff --git a/download.html b/download.html
@@ -7,7 +7,7 @@
 <meta name="description" content="Download The App Lockr on Google Play. On a computer? Scan the QR code with your phone camera to open it on your phone.">
 <meta name="robots" content="index, follow">
 <meta property="og:title" content="Download The App Lockr">
-<meta property="og:description" content="Get The App Lockr on Google Play — $4.99 one-time, no subscription, no cloud, no network permission.">
+<meta property="og:description" content="Get The App Lockr on Google Play — $4.99 one-time, no subscription, no cloud, no internet permission.">
 <meta property="og:type" content="website">
 <meta property="og:url" content="https://theapplockr.com/download.html">
 <meta property="og:image" content="https://theapplockr.com/assets/img/og.png">
@@ -75,7 +75,7 @@
     <div class="foot-grid">
       <div class="foot-brand">
         <a class="brand" href="/">The App <b>Lockr</b></a>
-        <p class="normalcase">Your passwords never leave your device. No account, no cloud, no network permission.</p>
+        <p class="normalcase">Lock any app behind your fingerprint. No account, no cloud, no internet permission.</p>
       </div>
       <div class="foot-col">
         <h4>Product</h4>

diff --git a/404.html b/404.html
@@ -16,7 +16,7 @@
   <div class="wrap">
     <svg class="hero-mark" viewBox="0 0 24 24" fill="none" aria-hidden="true"><rect x="4" y="10" width="16" height="11" rx="2.5" fill="currentColor"/><path d="M8 10V7a4 4 0 0 1 8 0v3" stroke="currentColor" stroke-width="2" fill="none"/><circle cx="12" cy="15" r="1.6" fill="var(--bg)"/></svg>
     <h1>Locked out of this one.</h1>
-    <p class="lede normalcase">That page doesn't exist — but your passwords are still safe on your device.</p>
+    <p class="lede normalcase">That page doesn't exist — but your apps are still locked.</p>
     <div class="cta-row"><a href="/" class="btn btn-primary">Back to home</a></div>
   </div>
 </section>